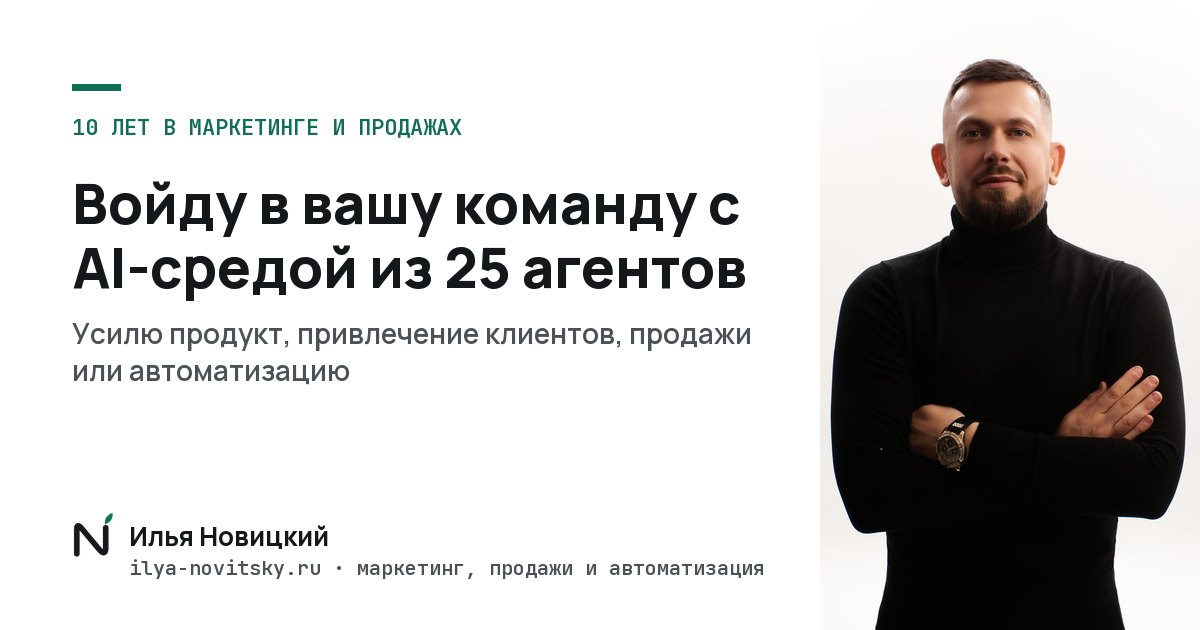
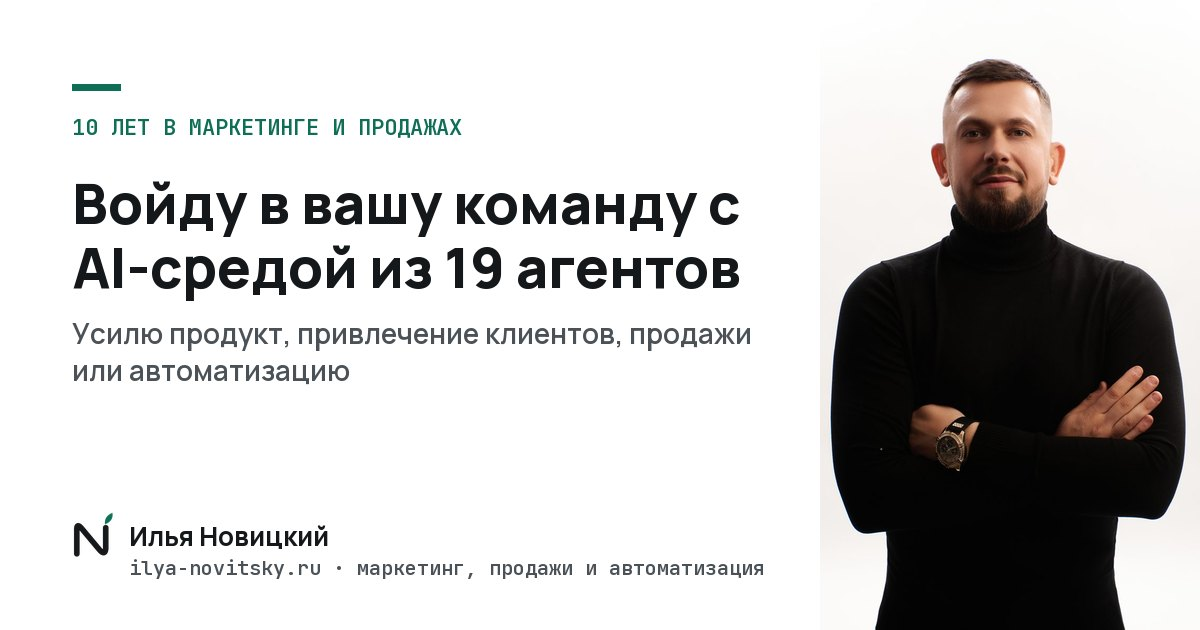
AI-среда: 19 агентов в 8 отделах, 187 навыков (состав 27.10)

Changed region(s): [[0.37, 0.3921, 0.6475, 0.4825]]

diff --git a/content/pages/home.ts b/content/pages/home.ts
@@ -7,18 +7,18 @@ import { services } from "./kak-my-rabotaem";
 
 export const home = typo({
 	meta: {
-		title: "Илья Новицкий: войду в вашу команду с AI-средой из 25 агентов",
-		description: "10 лет в маркетинге и продажах и AI-среда из 25 агентов. Усилю продукт, привлечение клиентов, продажи или автоматизацию. Разбор задачи бесплатно.",
+		title: "Илья Новицкий: войду в вашу команду с AI-средой из 19 агентов",
+		description: "10 лет в маркетинге и продажах и AI-среда из 19 агентов. Усилю продукт, привлечение клиентов, продажи или автоматизацию. Разбор задачи бесплатно.",
 	},
 
 	hero: {
 		pill: "Илья Новицкий · 10 лет в маркетинге и продажах",
-		h1: "Войду в вашу команду с готовой AI-средой из 25 агентов",
+		h1: "Войду в вашу команду с готовой AI-средой из 19\u00a0агентов",
 		lead: "Усилю то, что нужно вам: продукт, привлечение клиентов, продажи или автоматизацию. Вы экономите на подрядчиках и найме, а своё время тратите на развитие бизнеса.",
 		primary: "Разобрать задачу бесплатно",
 		secondary: "Отдельные задачи и цены",
 		env: {
-			label: "Схема AI-среды: Илья управляет девятью отделами агентов напрямую или через директора",
+			label: "Схема AI-среды: Илья управляет восемью отделами агентов напрямую или через директора",
 			bar: "моя AI-среда",
 			me: "Илья",
 			meNote: "решает и проверяет",
@@ -34,7 +34,7 @@ export const home = typo({
 			],
 		},
 		facts: [
-			{ num: "140+ навыков", text: "у агентов в 9 отделах" },
+			{ num: "187 навыков", text: "у агентов в 8 отделах" },
 			{ num: "300+ проектов", text: "за 5 лет своего digital-агентства" },
 			{ num: "30 минут", text: "бесплатный разбор вашей задачи" },
 		],
@@ -60,7 +60,7 @@ export const home = typo({
 		labels: { tasks: "Когда нужен", agents: "Агенты", me: "Что решаю я", mine: "Из моей работы", mineNote: "В блоке «Из моей работы» примеры из моих проектов, а не обещание для вашего", cta: "Обсудить мою задачу" },
 		deps: [
 			{
-				name: "Управление", skills: 26, line: "Любая задача проходит путь от вопроса до готового результата.",
+				name: "Управление", skills: 44, line: "Любая задача проходит путь от вопроса до готового результата.",
 				tasks: ["дел много, и непонятно, с чего начать", "большой проект расползается по чатам и срокам", "договорённости после встреч теряются"],
 				agents: [
 					{ n: "Директор", t: "по желанию: принимает запрос, составляет план и раздаёт работу агентам" },
@@ -73,82 +73,68 @@ export const home = typo({
 				mine: "Сервис AI-отделов: директор ведёт проект, продюсер собирает части, контролёр проверяет каждую. Готовы фундамент проекта, прототип из 73 экранов и технический чертёж. Задачи всех проектов каждое утро сами собираются на общую доску.",
 			},
 			{
-				name: "Продажи и клиенты", skills: 17, line: "Ответ на каждую заявку и понятно, где теряются клиенты.",
-				tasks: ["заявки приходят, а ответа ждут часами", "клиенты пропадают после коммерческого предложения", "непонятно, почему не покупают"],
+				name: "Продажи и клиенты", skills: 30, line: "Ответ на каждую заявку и отзыв, понятно, где теряются клиенты.",
+				tasks: ["заявки приходят, а ответа ждут часами", "клиенты пропадают после коммерческого предложения", "отзывы и вопросы после покупки остаются без ответа"],
 				agents: [
-					{ n: "Консультант по заявкам", t: "отвечает на входящие, уточняет детали, передаёт горячих клиентов" },
 					{ n: "Менеджер по продажам", t: "коммерческие предложения, скрипты, ответы на возражения" },
+					{ n: "Специалист по клиентам", t: "отвечает на заявки и вопросы по базе знаний, на отзывы, горячих передаёт менеджеру" },
 					{ n: "Аналитик продаж", t: "разбирает звонки и переписки, находит, где теряются клиенты" },
 				],
-				me: "Что и по какой цене предлагаем и что говорим клиентам. Агенты готовят и отвечают, я проверяю.",
+				me: "Что и по какой цене предлагаем и что говорим клиентам. Агенты готовят и отвечают по правилам, сложное передают вам, я проверяю.",
 				mine: "Два бота: бот прогрева ведёт человека по воронке и записывает на разбор, бот экспресс-разбора задаёт вопросы и присылает готовый PDF-разбор.",
 			},
 			{
-				name: "Маркетинг и контент", skills: 24, line: "Понятный оффер и регулярный контент о вашем продукте.",
+				name: "Маркетинг и контент", skills: 50, line: "Понятный оффер и регулярный контент о вашем продукте.",
 				tasks: ["продукт сильный, но его не понимают", "контент выходит от случая к случаю", "знания эксперта не упакованы в продукт"],
 				agents: [
 					{ n: "Маркетолог", t: "позиционирование, оффер, контент-план" },
 					{ n: "Копирайтер", t: "тексты постов, рассылок, сайта и статей" },
 					{ n: "Дизайнер", t: "обложки, баннеры, презентации, единый стиль" },
-					{ n: "Методолог", t: "упаковывает знания в методику, курс, обучение клиентов" },
+					{ n: "Методолог", t: "курсы и уроки для клиентов, регламенты и план адаптации для сотрудников" },
+					{ n: "Исследователь", t: "собирает и проверяет факты со ссылкой и датой: конкуренты, цены, ниша" },
 				],
 				me: "Что говорим, кому и зачем. Агенты пишут и рисуют, я правлю и утверждаю.",
 				mine: "Разобрал 8 сильных авторов и 1 755 их постов, из этого собрана формула текстов. По ней пишутся этот сайт, 10 статей блога и посты канала.",
 			},
 			{
-				name: "Разработка", skills: 18, line: "Сайты, боты и инструменты без долгой разработки.",
+				name: "Разработка", skills: 12, line: "Сайты, боты и инструменты без долгой разработки.",
 				tasks: ["данные переносят вручную", "нужен сайт, бот записи или личный кабинет", "нужна первая версия продукта без долгой паузы"],
 				agents: [
-					{ n: "Технический руководитель", t: "план, выбор решения, порядок запуска, риски" },
-					{ n: "Разработчик", t: "сайты, лендинги, боты, внутренние инструменты" },
-					{ n: "Тестировщик", t: "проверяет всё до запуска и понятно описывает ошибки" },
+					{ n: "Разработчик", t: "план и выбор решения, сайты, боты, внутренние инструменты, проверка до запуска" },
 				],
 				me: "Что строить и в каком порядке. Агенты пишут код и проверяют, я принимаю.",
-				mine: "Платформа для мастеров красоты: технический руководитель ведёт план, разработчик собирает бот, мини-приложение и базу клиентов, тестировщик проверяет до выкладки. И этот сайт на 47 страниц с автоматическими проверками.",
+				mine: "Платформа для мастеров красоты: разработчик ведёт план, собирает бот, мини-приложение и базу клиентов и проверяет всё до выкладки. И этот сайт на 47 страниц с автоматическими проверками.",
 			},
 			{
-				name: "Финансы и документы", skills: 18, line: "Деньги посчитаны, документы в порядке.",
+				name: "Финансы и документы", skills: 22, line: "Деньги посчитаны, документы в порядке.",
 				tasks: ["непонятно, сколько стоит клиент и что окупается", "счета и акты копятся", "договоры каждый раз пишутся с нуля"],
 				agents: [
-					{ n: "Финансовый аналитик", t: "сколько приносит каждый клиент, отчёты, расчёты" },
-					{ n: "Бухгалтер-помощник", t: "счета, акты, сверки, платёжный календарь" },
-					{ n: "Юрист-помощник", t: "черновики договоров и претензий, проверка рисков. Не заменяет юриста" },
+					{ n: "Финансист", t: "сколько приносит каждый клиент, отчёты, счета, акты, платёжный календарь" },
+					{ n: "Юрист", t: "черновики договоров и претензий, проверка рисков. Не заменяет вашего юриста" },
 				],
 				me: "Какие цифры важны для решений. Агенты считают и готовят черновики, финальные документы проверяет ваш юрист или бухгалтер.",
-				mine: "",
-			},
-			{
-				name: "Клиентский сервис", skills: 10, line: "Клиенты получают ответ, отзывы не остаются без внимания.",
-				tasks: ["клиенты пишут после покупки и ждут ответа", "отзывы на картах и площадках остаются без ответа", "жалобы теряются"],
-				agents: [
-					{ n: "Специалист поддержки", t: "отвечает клиентам после покупки по базе знаний" },
-					{ n: "Менеджер по отзывам", t: "отвечает на отзывы и собирает жалобы" },
-				],
-				me: "Как говорим с клиентами и что делаем с жалобами. Агенты отвечают по правилам, сложное передают вам.",
 				mine: "",
 			},
 			{
 				name: "Реклама и трафик", skills: 12, line: "Понятно, откуда приходят заявки и что работает.",
 				tasks: ["реклама идёт, а что из неё приносит клиентов, непонятно", "нужны новые каналы", "нужны креативы и тексты объявлений"],
 				agents: [
-					{ n: "Специалист по рекламе", t: "креативы, тексты объявлений, медиаплан, подбор каналов" },
-					{ n: "Аналитик трафика", t: "откуда заявки, сколько стоит клиент, куда перенести бюджет" },
+					{ n: "Специалист по рекламе", t: "объявления и креативы, медиаплан, откуда заявки и что окупается" },
 				],
 				me: "Куда идём и сколько готовы тратить. Агенты готовят и считают, я выбираю.",
 				mine: "Для своего трафика собрал связку из директора и четырёх агентов. Разведчик-аналитик разобрал 26 авторов и 1 000+ роликов, сценарист пишет контент-план на 30 роликов, монтажёр собирает ролики, выпускающий выкладывает.",
 			},
 			{
-				name: "Персонал", skills: 11, line: "Вакансии, отклики и адаптация новичков по порядку.",
-				tasks: ["вакансия висит, отклики не разобраны", "новичок неделю не понимает, что делать", "регламентов нет"],
+				name: "Персонал", skills: 8, line: "Вакансии и отклики разобраны по порядку.",
+				tasks: ["вакансия висит, отклики не разобраны", "непонятно, кого именно ищем", "собеседования идут без плана"],
 				agents: [
-					{ n: "Рекрутер", t: "вакансии, разбор откликов, вопросы к собеседованию" },
-					{ n: "Специалист по адаптации", t: "регламенты, план первой недели, тесты для новых сотрудников" },
+					{ n: "Рекрутер", t: "вакансии, разбор откликов, вопросы к собеседованию" }
 				],
 				me: "Кого ищем и что важно в работе. Агенты готовят, решение о найме за вами.",
 				mine: "",
 			},
 			{
-				name: "Видео", skills: 5, line: "Короткие видео для соцсетей без съёмочной группы.",
+				name: "Видео", skills: 9, line: "Короткие видео для соцсетей без съёмочной группы.",
 				tasks: ["видео откладывается на потом", "есть исходники, но нет сценария", "нужна серия роликов"],
 				agents: [{ n: "Видеомейкер", t: "сценарии рилс, раскадровка, субтитры" }],
 				me: "О чём ролики и как они ведут к продукту. Агент пишет сценарии, я утверждаю.",

diff --git a/content/pages/keisy.ts b/content/pages/keisy.ts
@@ -38,7 +38,7 @@ export const keisy = typo({
 			{ y: "2016", t: "Первые продажи", d: "Товары и сайты своими руками, первая система больше чем на миллион рублей, которая продавала без менеджера." },
 			{ y: "2018", t: "Трафик и заявки", d: "Приводил заявки бизнесам и считал, сколько стоит каждый клиент." },
 			{ y: "2020–2025", t: "Своё digital-агентство", d: "От рекламы до оплаты и CRM: 631 успешная сделка за последние 3,5 года." },
-			{ y: "2026", t: "AI-среда, свои продукты и книга", d: "25 агентов в 9 отделах и четыре своих продукта: на них проверяю подход, прежде чем приносить его клиентам. Опыт собрал в книгу [«Нейро-воронка»](/book)." },
+			{ y: "2026", t: "AI-среда, свои продукты и книга", d: "19 агентов в 8 отделах и четыре своих продукта: на них проверяю подход, прежде чем приносить его клиентам. Опыт собрал в книгу [«Нейро-воронка»](/book)." },
 		],
 	},
 

diff --git a/src/components/home/Team.tsx b/src/components/home/Team.tsx
@@ -4,7 +4,7 @@ import SectionHead from "@/components/ui/SectionHead";
 
 const plural = (n: number, [one, few, many]: string[]) => (n % 10 === 1 && n % 100 !== 11 ? one : n % 10 >= 2 && n % 10 <= 4 && (n % 100 < 12 || n % 100 > 14) ? few : many);
 
-// 01 · моя среда: круг задачи из 6 шагов, человек — главное звено (решение Ильи 26.10) + 9 отделов карточками. Раскрытие — задачи, агенты, что решаю я, пример из моей работы.
+// 01 · моя среда: круг задачи из 6 шагов, человек — главное звено (решение Ильи 26.10) + 8 отделов карточками. Раскрытие — задачи, агенты, что решаю я, пример из моей работы.
 export default function Team() {
 	const c = home.team;
 	const l = c.labels;

diff --git a/content/pages/common.ts b/content/pages/common.ts
@@ -6,7 +6,7 @@ import { prices as P } from "@/config/prices";
 export const common = typo({
 	site: {
 		title: "Илья Новицкий · маркетинг, продажи и автоматизация с AI-средой",
-		description: "10 лет в маркетинге и продажах и AI-среда из 25 агентов: встраиваюсь в команду и усиливаю продукт, привлечение клиентов, продажи или автоматизацию.",
+		description: "10 лет в маркетинге и продажах и AI-среда из 19 агентов: встраиваюсь в команду и усиливаю продукт, привлечение клиентов, продажи или автоматизацию.",
 		jobTitle: "Маркетинг, продажи и автоматизация с AI-средой",
 	},
 

diff --git a/src/components/home/Hero.tsx b/src/components/home/Hero.tsx
@@ -1,7 +1,7 @@
 import { home } from "@content/pages/home";
 import EnvScheme from "./EnvScheme";
 
-// Первый экран v9: оффер «войду в команду», две кнопки; справа — схема AI-среды (Илья → директор → 9 отделов) и пример ленты задач.
+// Первый экран v9: оффер «войду в команду», две кнопки; справа — схема AI-среды (Илья → директор → 8 отделов) и пример ленты задач.
 // Три факта — отдельной тонкой полосой под экраном, чтобы не грузить первый экран (решение Ильи 23.10).
 export default function Hero() {
 	const c = home.hero;

diff --git a/content/pages/blog.ts b/content/pages/blog.ts
@@ -27,7 +27,7 @@ export const blog = typo({
 		updated: "обновлено",
 		mins: "мин чтения",
 		toc: "В статье",
-		author: "10 лет в маркетинге и продажах: пять лет своего digital-агентства, с апреля 2026 собираю свои продукты на AI-среде из 25 агентов.",
+		author: "10 лет в маркетинге и продажах: пять лет своего digital-агентства, с апреля 2026 собираю свои продукты на AI-среде из 19 агентов.",
 		about: "Подробнее обо мне →",
 		channel: "Канал в Telegram →",
 		related: "Читать дальше",

diff --git a/src/components/home/EnvScheme.tsx b/src/components/home/EnvScheme.tsx
@@ -1,6 +1,6 @@
 import { home } from "@content/pages/home";
 
-// Схема AI-среды (Илья → директор → 9 отделов + пример ленты задач): первый экран главной и «Как работаю в команде».
+// Схема AI-среды (Илья → директор → 8 отделов + пример ленты задач): первый экран главной и «Как работаю в команде».
 export default function EnvScheme() {
 	const e = home.hero.env;
 	return (

diff --git a/docs/BLUEPRINT.md b/docs/BLUEPRINT.md
@@ -21,7 +21,7 @@ ilya-novitsky.ru/
 ├── package.json, next.config.js, tsconfig.json  ✓ настройки сборки (npm run build · og · check)
 ├── content/                  ✓ всё, что читает человек, — отдельно от кода
 │   ├── pages/
-│   │   ├── home.ts           ✓ главная v9 (23.10): первый экран «войду в команду» + 01 среда (9 отделов, 25 агентов, 130+ навыков) · 02 что даёт · 03 как работаем (от 150 000 ₽) · 04 опыт · 05 отдельные задачи · 06 вопросы · 07 познакомимся
+│   │   ├── home.ts           ✓ главная v9 (23.10): первый экран «войду в команду» + 01 среда (8 отделов, 19 агентов, 187 навыков) · 02 что даёт · 03 как работаем (от 150 000 ₽) · 04 опыт · 05 отдельные задачи · 06 вопросы · 07 познакомимся
 │   │   ├── faq.ts            ✓ вопросы главной
 │   │   ├── keisy.ts          ✓ кейсы v2 (23.10): путь 2016–2026, кейсы агентства по направлениям (маркетинг, продажи, автоматизация), свои продукты (AI-сервис, GAZE), связка с услугами, отзывы
 │   │   ├── primer.ts         ✓ «Пример чертежа» 16.10: зачем карта · карта проекта · как читать · прототип · ведение по карте · ваш проект · начать; превью карты для главной, «Как мы работаем», кейсов

diff --git a/docs/DECISIONS.md b/docs/DECISIONS.md
@@ -130,3 +130,7 @@
 - Цели: `cta_start_team` вместо `cta_start_vedenie`, новые `cta_start_audit`, `book_litres`.
 - Чистка: 400 мёртвых правил CSS (base.css 1132 → 733 строки, CSS 19 → 14 КБ), удалены Fable, Offer и две неиспользуемые картинки; вид 13 страниц на двух ширинах проверен попиксельно до и после.
 
+
+## 27.10 — состав среды 19 агентов в 8 отделах
+- Источник: OkiDelo «Команда — состав 19 — 27.10.md» (решения Ильи 27.10): 19 агентов, 8 отделов, 187 навыков; объединены пересекающиеся роли, новый Исследователь, «Клиентский сервис» вошёл в «Продажи и клиенты».
+- На сайте: заголовок и описание главной, схема, блок «Моя AI-среда», путь в /keisy, автор блога. Тарифы OkiDelo на сайте не упоминаются.
